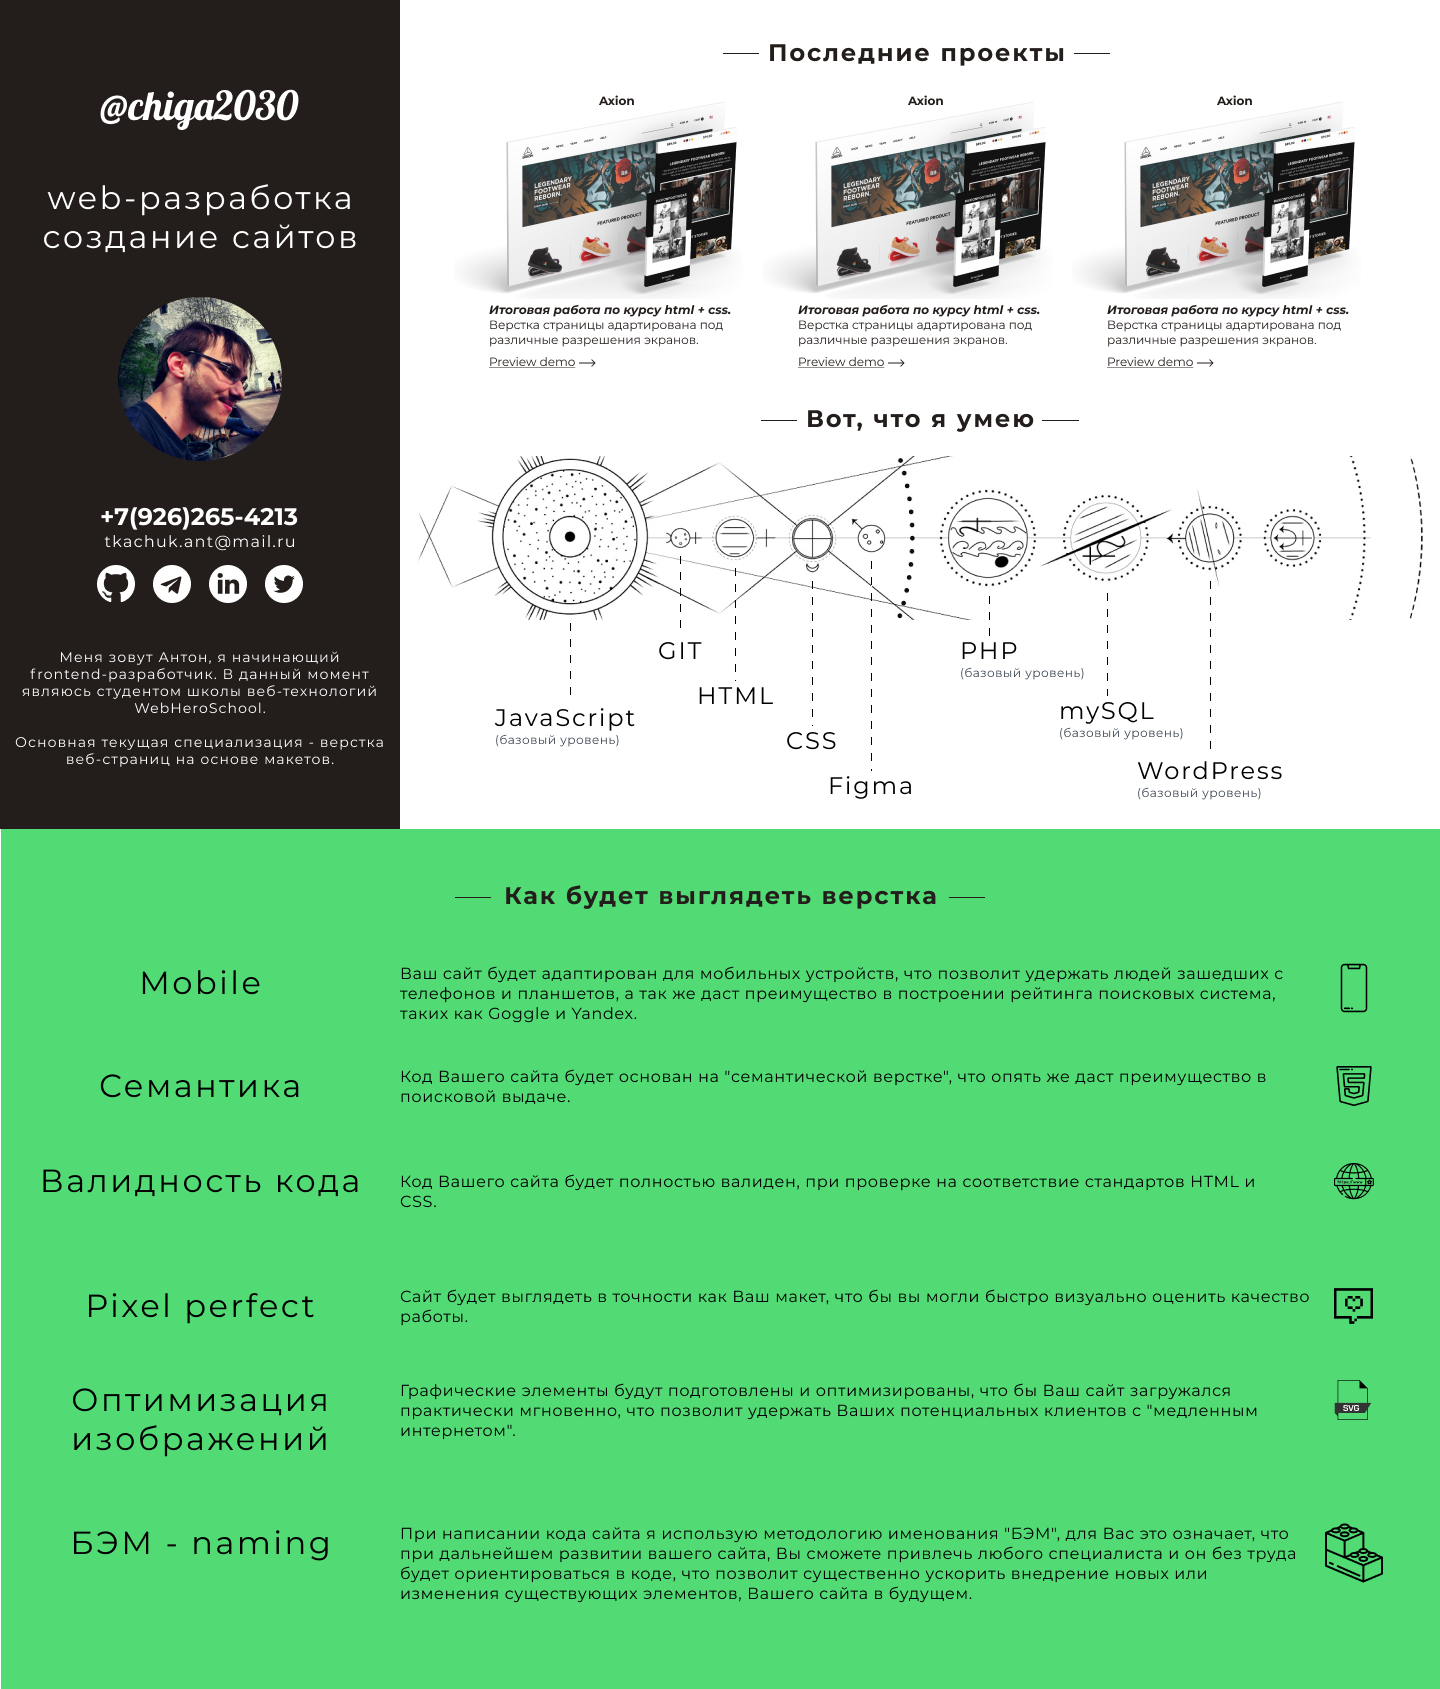
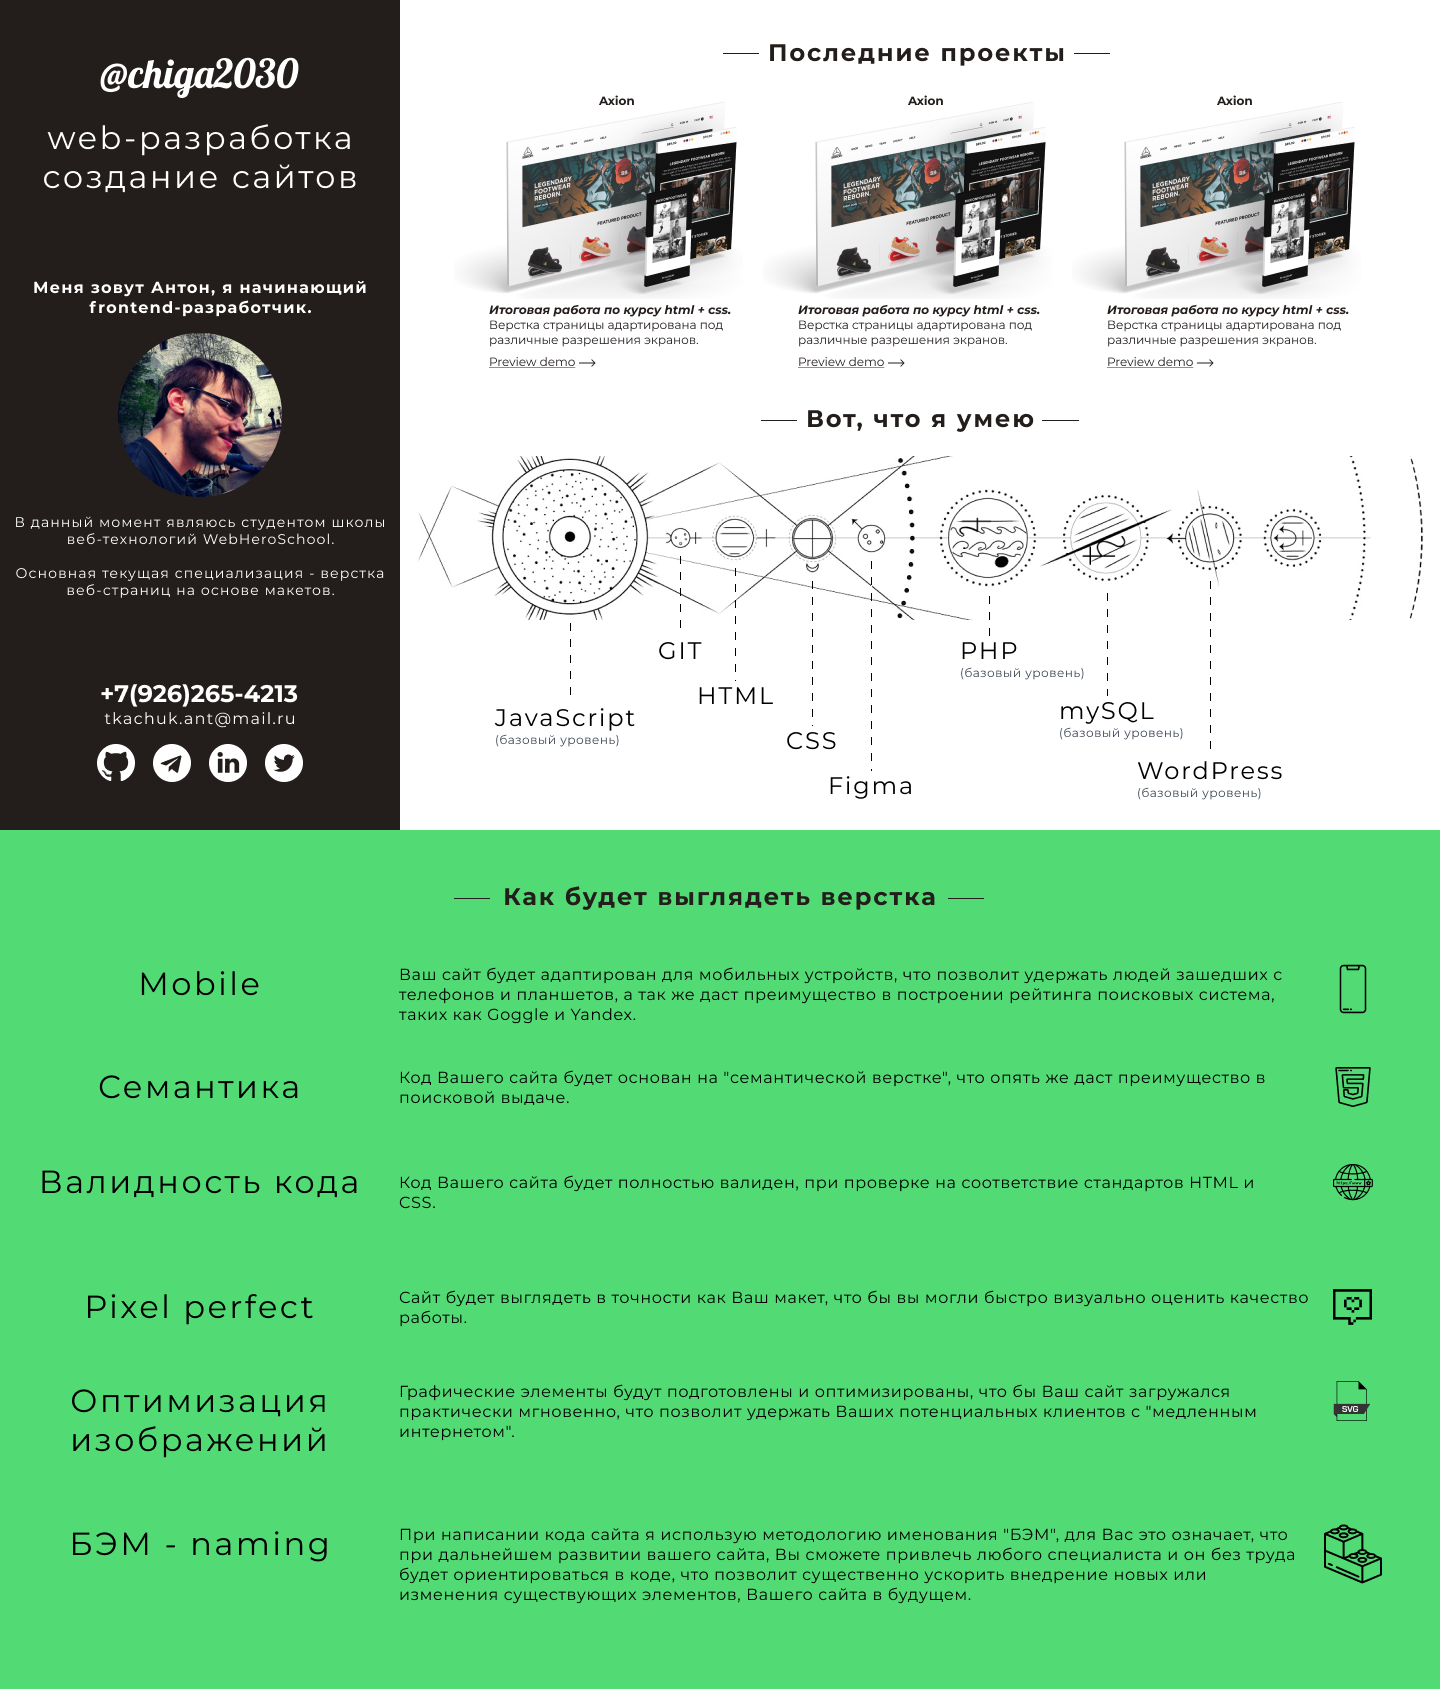
redesign first section and complete

diff --git a/index.html b/index.html
@@ -2,6 +2,7 @@
 <html lang="en">
 <head>
 	<meta charset="UTF-8">
+	<meta name="viewport" content="initial-scale=1.0, width=device-width">
 	<link rel="stylesheet" href="./fonts/fonts.css">
 	<link rel="stylesheet" href="./style.css">
 	<title>Web develop and sites creative</title>
@@ -12,39 +13,36 @@
 		<section class="about">
 
 			<header class="about-header">
-				<h1 class="name-logo">@chiga2030</h1>
-				<p class="about__about-subtitle about-subtitle">
-					web-разработка
-					<wbr>
-					создание сайтов
-				</p>
+				<h1 class="about__name-logo name-logo">@chiga2030</h1>
+				<p class="about__about-subtitle about-subtitle">web-разработка<br>создание сайтов</p>
 			</header>
 
 			<section class="contacts">
+				<h2 class="contacts__contacts-subtitle contacts-subtitle">Меня зовут Антон, я начинающий frontend-разработчик.</h2>
 				<div class="contacts__avatar avatar">
 					<!-- <img src="./img/avatar.jpg" alt="avatar @chiga2030"> -->
 				</div>
-				<a class="contacts__phone phone" href="tel:+7(926)265-4213">+7(926)265-4213</a>
-				<a class="email" href="mailto:tkachuk.ant@mail.ru">tkachuk.ant@mail.ru</a>
-				<div class="networks">
-					<span class="networks__github">
-						<!-- <img src="./img/social-networks/github.png" alt="social link to github.com"> -->
-					</span>
-					<span class="networks__telegram">
-						<!-- <img src="./img/social-networks/telegram.png" alt="social link to telegram.org"> -->
-					</span>
-					<span class="networks__linkedin">
-						<!-- <img src="./img/social-networks/linkedin.png" alt="social link to linkedin.com"> -->
-					</span>
-					<span class="networks__twitter">
-						<!-- <img src="./img/social-networks/twitter.png" alt="social link to twitter.com"> -->
-					</span>
-				</div>
+				<p class="about-me">В данный момент являюсь студентом школы веб-технологий WebHeroSchool.</p>
+				<p class="about-me">Основная текущая специализация - верстка веб-страниц на основе макетов.</p>
 			</section>
 
 			<footer class="about-footer">
-				<p class="about-me">Меня зовут Антон, я начинающий frontend-разработчик. В данный момент являюсь студентом школы веб-технологий WebHeroSchool.</p>
-				<p class="about-me">Основная текущая специализация - верстка веб-страниц на основе макетов.</p>
+				<a class="about-footer__phone phone" href="tel:+7(926)265-4213">+7(926)265-4213</a>
+				<a class="about-footer__email email" href="mailto:tkachuk.ant@mail.ru">tkachuk.ant@mail.ru</a>
+				<div class="networks">
+					<a href="https://github.com/chiga2030"><span class="networks__item networks__item_github">
+						<!-- <img src="./img/social-networks/github.png" alt="social link to github.com"> -->
+					</span></a>
+					<a href="https://t.me/chiga2030"><span class="networks__item networks__item_telegram">
+						<!-- <img src="./img/social-networks/telegram.png" alt="social link to telegram.org"> -->
+					</span></a>
+					<a href="https://www.linkedin.com/in/tkachuk-anton"><span class="networks__item networks__item_linkedin">
+						<!-- <img src="./img/social-networks/linkedin.png" alt="social link to linkedin.com"> -->
+					</span></a>
+					<a href="https://twitter.com/chiga2030"><span class="networks__item networks__item_twitter">
+						<!-- <img src="./img/social-networks/twitter.png" alt="social link to twitter.com"> -->
+					</span></a>
+				</div>
 			</footer>
 
 		</section>

diff --git a/style.css b/style.css
@@ -8,13 +8,15 @@ body {
 
 .grid-wrapper {
 	display: grid;
-	grid-template-columns: 400px 3fr;
-	grid-auto-rows: minmax(830px, auto);
+	grid-template-columns: 400px auto;
+	grid-template-rows: 830px auto;
+	margin: auto;
+	max-width: 1440px;
 }
 
 .grid-wrapper-right-top {
 	display: grid;
-	grid-template-columns: 1fr;
+	grid-template-columns: auto;
 }
 
 /* about block 1440px */
@@ -23,17 +25,19 @@ body {
 	background: #231E1B;
 }
 
-.about-header {}
+.about__name-logo {
+	margin-bottom: 0.5em;
+}
 
 .name-logo {
 	color: #fff;
 	font: normal 400 2.5em lobster;
-	padding: 1.18em 0 .35em;
+	padding-top: .36em;
 	text-align: center;
 }
 
 .about__about-subtitle {
-	margin-bottom: 1.3em;
+	margin: 0 auto 2.6em;
 }
 
 .about-subtitle {
@@ -43,11 +47,19 @@ body {
 	text-align: center;
 }
 
-.contacts {}
+.contacts__contacts-subtitle {
+	margin-bottom: 1.1em;
+}
+
+.contacts-subtitle {
+	color: #fff;
+	font: normal 700 1em montserrat;
+	letter-spacing: 0.08em;
+	text-align: center;
+}
 
 .contacts__avatar {
-	margin: auto;
-	/*width: auto;*/
+	margin: 0 auto 1em;
 }
 
 .avatar {
@@ -57,32 +69,74 @@ body {
 	width: 162px; /*164px*/
 }
 
-.contacts__phone {
-	margin: 1.8em 0 0em;
+.about-me {
+	color: #fff;
+	font-size: 0.9em;
+	letter-spacing: 0.06em;
+	text-align: center;
+}
+
+.about-me:last-child {
+	margin-bottom: 5.55em;
+}
+
+.about-footer__phone {
+	margin: 0 auto 0.05em;
 }
 
 .phone {
-	color: #fff
+	color: #fff;
 	display: block;
 	font: normal 700 1.5em montserrat;
 	text-align: center;
 	text-decoration: none;
 }
 
-.email {
-	display: block;
+.about-footer__email {
+	margin-bottom: 1em;
 }
 
-.networks {}
-.networks__github {}
-.networks__telegram {}
-.networks__linkedin {}
-.networks__twitter {}
-.about-footer {}
-.about-me {}
+.email {
+	color: #fff;
+	display: block;
+	font: normal 400 1em montserrat;
+	text-align: center;
+	text-decoration: none;
+	letter-spacing: 0.08em;
+}
+
+.networks {
+	display: flex;
+	justify-content: space-between;
+	max-width: 206px;
+	margin: auto;
+}
+
+.networks__item {
+	display: inline-block;
+	height: 38px;
+	width: 38px;
+}
+
+.networks__item_github {
+	background: url(./img/social-networks/github.png) no-repeat;
+}
+
+.networks__item_telegram {
+	background: url(./img/social-networks/telegram.png) no-repeat;
+}
+
+.networks__item_linkedin {
+	background: url(./img/social-networks/linkedin.png) no-repeat;
+}
+
+.networks__item_twitter {
+	background: url(./img/social-networks/twitter.png) no-repeat;
+}
 
 
 
+/*
 .last-projects {}
 .title-last-projects {}
 .projects {}
@@ -98,10 +152,11 @@ body {
 
 
 
-
+*/
 .my-skills {
 	background: #69c;
 }
+/*
 .title-my-skills {}
 .wrapper-my-skills {}
 .basic-level-js {}
@@ -120,3 +175,4 @@ body {
 .basic-level-wp {}
 .skill-wp {}
 .skill-wp_basic {}
+*/
